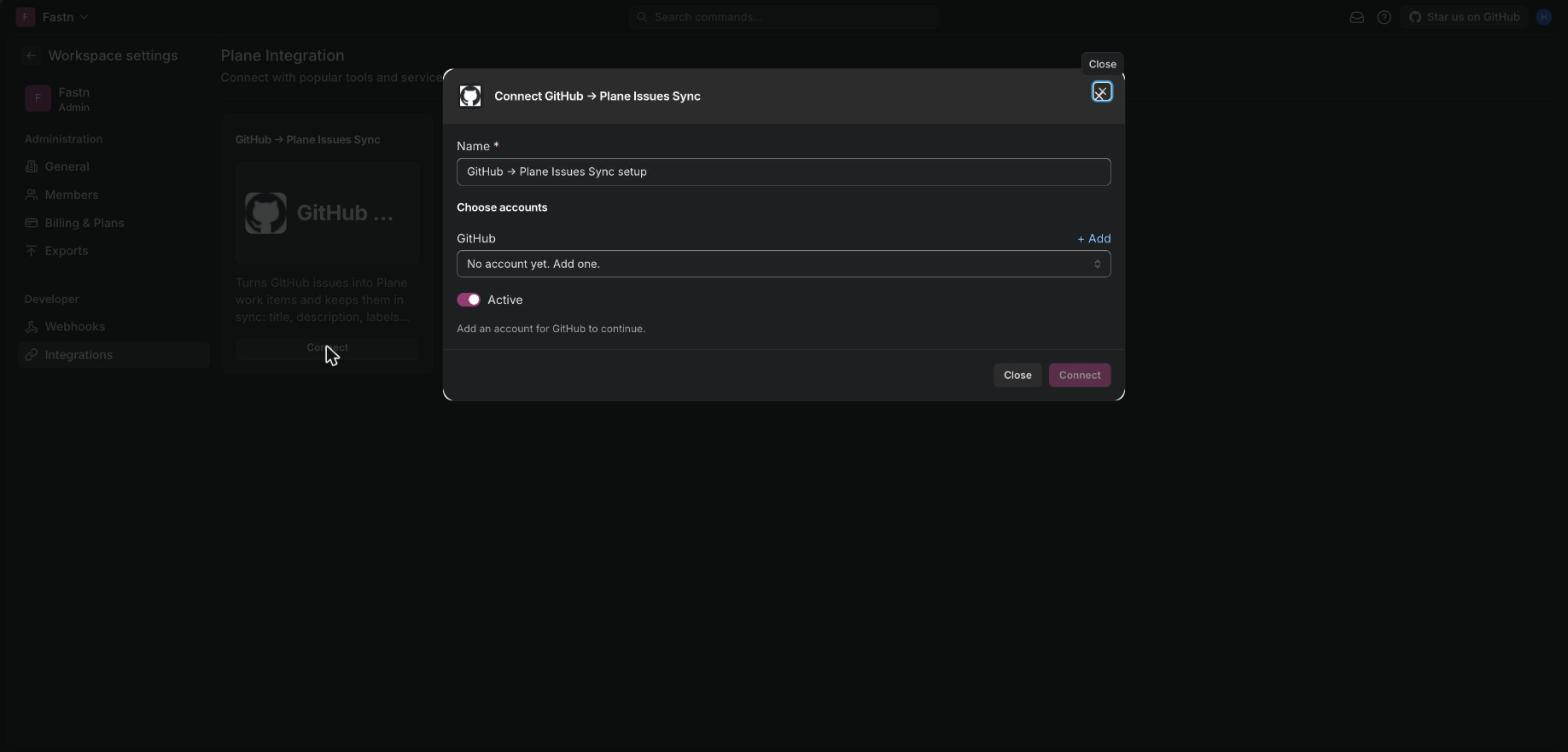
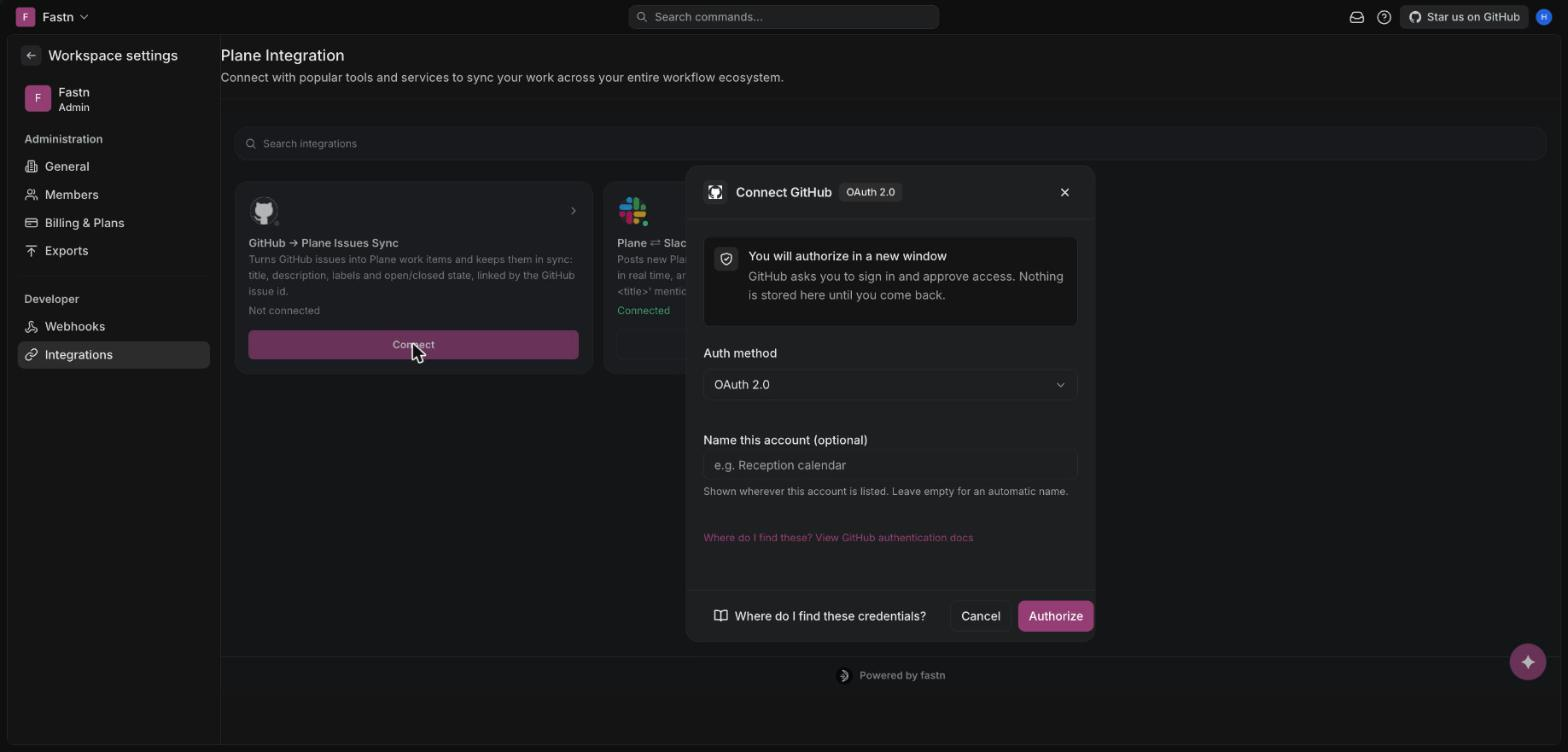
docs: refresh the fastn screenshots and steps
New screenshots of the integrations page, the GitHub connect dialog and a
connected integration's page, and the steps and diagram updated to match the
standard hub.

diff --git a/README.md b/README.md
@@ -5,13 +5,17 @@ This fork of [Plane](https://github.com/makeplane/plane) embeds the [fastn](http
 ## Using it
 
 1. Open **Workspace settings** (the workspace menu in the top-left corner, then **Settings**).
-2. Under **Developer**, choose **Integrations**. Every integration your fastn org offers is listed as a card.
+2. Under **Developer**, choose **Integrations**. Every integration your fastn org offers is listed as a card, with whether it's connected.
 
    ![Integrations page in Plane workspace settings](docs/fastn/integrations-page.jpg)
 
-3. Click **Connect** on a card. Plane opens fastn's connect step in a dialog: add (or pick) the account for the app, keep the setup **Active**, and click **Connect**.
+3. Click **Connect** on a card. fastn asks for the app's account: for GitHub, click **Authorize**, sign in to GitHub in the window that opens and approve access.
 
-   ![Connecting GitHub → Plane Issues Sync](docs/fastn/connect-dialog.jpg)
+   ![Connecting GitHub](docs/fastn/connect-dialog.jpg)
+
+   Click **Manage** on a connected integration to see its setup, the workflows it runs and recent activity.
+
+   ![The Plane ⇄ Slack integration's page](docs/fastn/app-page.jpg)
 
 4. Once connected, the integration runs on fastn's side. GitHub issues show up as Plane work items, Plane changes post to Slack, and so on, depending on the integration. With **Plane ⇄ Slack**, status changes in Plane post to your Slack channel, and `@Fastn create <title>` in Slack creates a Plane work item:
 
@@ -30,15 +34,15 @@ Settings > Integrations  --POST-->  /api/workspaces/<slug>/fastn/      POST /api
                                       |  fastn customer on first use
                                       |  and saves its Plane connection --> POST /api/v1/connections
                          <-- iframe URL with a short-lived emb_ token
-<iframe> fastn hub (cards view)
-  Connect --fastn:open--> Plane opens a dialog with the connect step
-  Close   --fastn:close-> Plane closes it and refreshes the cards
+<iframe> fastn hub (Plane Dark config + theme)
+  Connect, Manage and setups all open inside the frame
 ```
 
 - **One fastn customer per Plane workspace.** It's created on the first token request (`createIfMissing`), keyed by the workspace id.
 - **The fastn API key never reaches the browser.** Plane's API mints a short-lived embed token (8 hours, refreshed inside the frame), and the page only receives the iframe URL.
 - **Plane connects itself.** The fastn integrations mark the Plane app as the partner's own product, so the end user only connects the other app. On first load, Plane creates a workspace API token labelled `fastn-integration` and saves it in fastn as that customer's Plane connection.
 - **The look comes from fastn.** The page uses a fastn iframe config ("Plane Dark") and theme tokens, so the hub matches Plane's dark UI. Restyle it in fastn's widget builder.
+- **Fixed link for local testing.** Setting `VITE_FASTN_IFRAME_URL` in `apps/web/.env` makes the page frame that exact link instead. Its `emb_` token expires within 8 hours, so it's for local use only; `.env` is git-ignored.
 
 ## Setup
 
@@ -77,7 +81,7 @@ The `.env` files are git-ignored; keep the API key out of the repo.
 | --- | --- |
 | `apps/api/plane/app/views/fastn/base.py` | New: the embed-token endpoint and the Plane connection setup |
 | `apps/api/plane/app/urls/webhook.py`, `apps/api/plane/app/views/__init__.py` | Route and export for the endpoint |
-| `apps/web/app/(all)/[workspaceSlug]/(settings)/settings/(workspace)/integrations/page.tsx` | The Integrations page: hub frame, connect dialog, sizing |
+| `apps/web/app/(all)/[workspaceSlug]/(settings)/settings/(workspace)/integrations/page.tsx` | The Integrations page: the hub frame with the Plane Dark config and theme |
 | `apps/web/services/fastn.service.ts` | New: calls the endpoint |
 | `apps/web/app/routes/core.ts` | Route for the page |
 | `packages/constants/src/settings/workspace.ts`, `packages/types/src/settings.ts`, `apps/web/components/settings/workspace/sidebar/item-icon.tsx` | The **Integrations** entry in the settings menu |
